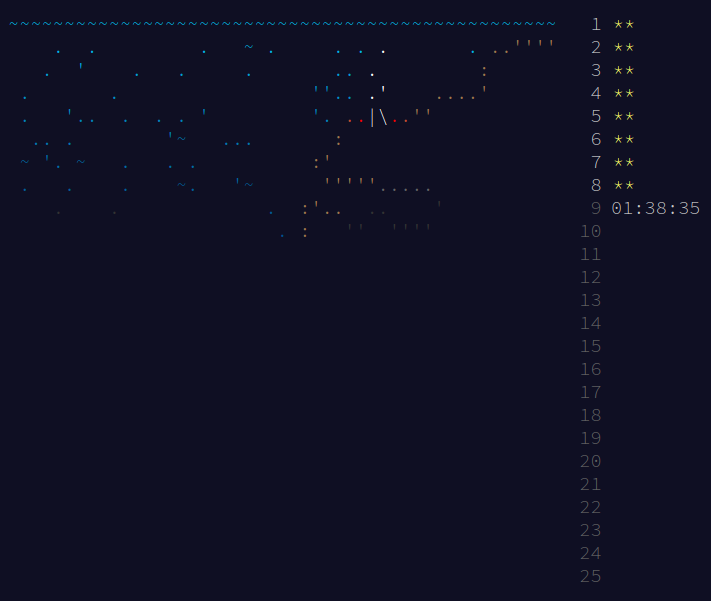
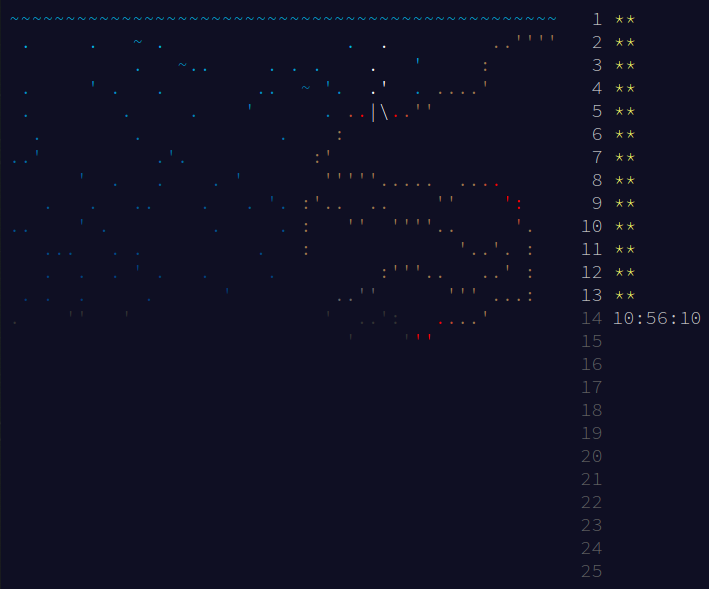
Updated 2021 calendar image

diff --git a/2021/README.md b/2021/README.md
@@ -1,6 +1,6 @@
 # Advent of Code 2021
 
-Progress so far...
+Half way checkpoint reached...
 
 ![AoC 2021 Calendar](../images/aoc_2021_calendar.png)
 
